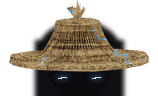
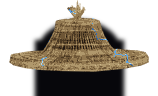
Put Lightning's face and his current where they belong
The face is gone completely. It had been lit from below with two bars where the
eyes were, which still gave the hat something to sit on; now the brim's shade is
opaque from brow to collar and there is nothing under it at all.

The arms were drawn reaching sideways from a shoulder, so the far one - which
the rig hangs from the far shoulder, behind the torso - was swallowed whole and
he appeared to have one arm. The near arm also hung its hand at hip height under
an elbow that sat above and behind it, which reads as an elbow bent backwards.
Both are drawn mirrored now, elbows low and forearms turned forward, so he holds
the open, both-palms-out stance of the painting.

The current is no longer painted into his hands. It is its own four-frame
animation (group 7030) spawned over him from Statedef -2, the way MKT HD lays
Raiden's electricity over his sprite: the body stays clean in every animation,
and the whole effect is one block that can be switched off in one place.

Changed region(s): [[0.557, 0.75, 0.6582, 0.8438], [0.3544, 0.75, 0.4304, 0.8438]]

diff --git a/tools/lightning_art.py b/tools/lightning_art.py
@@ -19,6 +19,7 @@ from __future__ import annotations
 
 import json
 import math
+import random
 import os
 import sys
 
@@ -213,7 +214,7 @@ def pelvis():
 
 # ------------------------------------------------------------------------ head
 def head():
-    """The hat hides the face; only two blue eyes burn out of its shade.
+    """The hat hides the face; under it there is nothing but its own shade.
 
     The hat is not drawn here. It is cut from the HD render in
     ``concept_art/fighters/lightning`` by ``tools/hat_cut.py``, because the
@@ -251,8 +252,8 @@ def head():
     # brim's shade is the whole head, not a band across the eyes. Brow to
     # collar goes to near-black, so no nose, mouth or jawline survives at
     # sprite size - he is a hat with two coals under it.
-    sd.ellipse([cx - 44, 20, cx + 44, 98], fill=(8, 8, 12, 248))
-    sd.rectangle([cx - 44, 40, cx + 44, 98], fill=(8, 8, 12, 248))
+    sd.ellipse([cx - 44, 20, cx + 44, 98], fill=(7, 7, 11, 255))
+    sd.rectangle([cx - 44, 40, cx + 44, 98], fill=(7, 7, 11, 255))
     img.alpha_composite(shade_layer.filter(ImageFilter.GaussianBlur(2.2)))
     d = ImageDraw.Draw(img)
 
@@ -263,72 +264,71 @@ def head():
     img.alpha_composite(hat_img, (cx - hat_img.width // 2,
                                   72 - hat_img.height))
 
-    # --- the only lit thing under it ---------------------------------------
-    for ex in (cx - 17, cx + 17):
-        glow = _blank((W, H))
-        ImageDraw.Draw(glow).ellipse([ex - 9, 72, ex + 9, 82],
-                                     fill=BOLT + (52,))
-        img.alpha_composite(glow.filter(ImageFilter.GaussianBlur(3)))
-    d = ImageDraw.Draw(img)
-    # Two embers, not eyes: enough that the shadow has something burning in it,
-    # little enough that nothing of the face is legible.
-    for ex, sgn in ((cx - 17, -1), (cx + 17, 1)):
-        d.line([(ex - 5, 78), (ex + 5, 77)], fill=(3, 6, 14, 220), width=3)
-        d.line([(ex - 4, 78), (ex + 4, 77)], fill=BOLT + (150,), width=1)
-        d.point([(ex - 1, 77)], fill=BOLT_CORE + (200,))
+    # Nothing under the brim at all, not even eyes: the hat is wide enough
+    # that his face is simply not in view, so the shade is the end of him.
+    # The current he carries is drawn as its own effect, not painted in here.
     return img
 
 
-_ARC_PARTS = []
+def hand_crackle(step):
+    """The current around his hands, drawn as its own effect animation.
 
-
-def _arcs():
-    """The painted lightning, cut once and reused by every arm."""
-    if not _ARC_PARTS:
-        _ARC_PARTS.extend(hat_cut.arcs(8, 80))
-    return _ARC_PARTS
-
-
-def _arc_stroke(img, index, box_w, box_h, at):
-    """Composite one arc cut from the concept, fitted into a box at ``at``.
-
-    The strokes in the painting are thin, tapered and forked; fitted by size
-    and drawn twice, a soft copy under the stroke for the halo, because at hand
-    size a single thin line disappears against the dark robe.
+    Not painted into the arm. It is a wide overlay frame the character spawns
+    over himself, the way MKT HD lays Raiden's electricity over his sprite, so
+    the arms stay clean in every animation and the effect can be turned off.
+    The strokes are the ones painted in the concept, keyed out by
+    ``hat_cut.arcs`` and re-jagged every frame so nothing sits still.
     """
-    pieces = _arcs()
+    W, H = 70, 50
+    img = _blank((W, H))
+    pieces = hat_cut.arcs(8, 80)
     if not pieces:
-        return
-    piece = pieces[index % len(pieces)]
-    scale = min(box_w / piece.width, box_h / piece.height)
-    size = (max(1, round(piece.width * scale)), max(1, round(piece.height * scale)))
-    small = piece.resize(size, Image.LANCZOS)
-    if small.width < 3 or small.height < 3:
-        return
-    halo = small.filter(ImageFilter.GaussianBlur(1.7))
-    halo.putalpha(halo.getchannel("A").point(lambda v: int(v * 0.55)))
-    img.alpha_composite(halo, at)
-    img.alpha_composite(small, at)
+        return img
+    rnd = random.Random(step * 13 + 5)
+    # Short strokes only, packed tight to each hand: the long ones across his
+    # hat cross the whole body and read as a bolt, not as current.
+    shorts = [q for q in pieces if max(q.size) <= 60] or pieces
+    for cx, cy in ((18, 25), (52, 25)):
+        for k in range(3):
+            piece = shorts[(step * 4 + k) % len(shorts)]
+            scale = rnd.uniform(0.22, 0.40)
+            size = (max(2, int(piece.width * scale)),
+                    max(2, int(piece.height * scale)))
+            p = piece.resize(size, Image.LANCZOS)
+            p = p.rotate(rnd.uniform(-75, 75), resample=Image.BICUBIC, expand=True)
+            at = (cx - p.width // 2 + rnd.randint(-5, 5),
+                  cy - p.height // 2 + rnd.randint(-5, 5))
+            halo = p.filter(ImageFilter.GaussianBlur(2.4))
+            halo.putalpha(halo.getchannel("A").point(lambda v: int(v * 0.6)))
+            img.alpha_composite(halo, at)
+            img.alpha_composite(p, at)
+    return img
 
 
 # ------------------------------------------------------------------------ arms
 def arm(near=True):
-    """One bent arm: robe sleeve, cuff, and a hand with current crawling on it."""
+    """One bent arm: robe sleeve, cuff, and a bare hand."""
     W, H = 148, 132
     img = _blank((W, H))
     base, lit, dark = (ROBE, ROBE_LIT, ROBE_DK) if near else (
         (18, 18, 22), (36, 36, 44), (8, 8, 10))
     skin = (SKIN, SKIN_LIT, SKIN_DK) if near else (SKIN_DK, SKIN, SKIN_DEEP)
+    # The elbow sits below and slightly behind the shoulder and the forearm
+    # rises forward to the hand: that is an arm bent towards the enemy. It used
+    # to hang the hand at hip height with the elbow above and behind it, which
+    # reads as an arm bent backwards - and the far arm was that same arm
+    # mirrored, which turned its forearm round and pointed that hand behind
+    # him as well.
     sh = (54.0, 14.0)
-    elbow = (56.0, 62.0)
-    wrist = (98.0, 84.0)
+    elbow = (48.0, 58.0) if near else (50.0, 62.0)
+    wrist = (92.0, 54.0) if near else (88.0, 60.0)
 
     # upper sleeve, hanging from the shoulder
     mask = Image.new("L", (W, H), 0)
     d = ImageDraw.Draw(mask)
-    d.polygon([(43, 14), (67, 14), (70, 54), (39, 57)], fill=255)
+    d.polygon([(41, 14), (65, 14), (64, 52), (36, 56)], fill=255)
     d.ellipse([sh[0] - 13, sh[1] - 8, sh[0] + 13, sh[1] + 13], fill=255)
-    d.ellipse([elbow[0] - 15, elbow[1] - 12, elbow[0] + 15, elbow[1] + 10], fill=255)
+    d.ellipse([elbow[0] - 12, elbow[1] - 9, elbow[0] + 12, elbow[1] + 9], fill=255)
     img.alpha_composite(char_rig._shade(mask, base, lit, dark))
 
     # forearm sleeve, angled out towards the enemy
@@ -341,11 +341,13 @@ def arm(near=True):
 
     d = ImageDraw.Draw(img)
     # flared cuff at the wrist
-    d.line([(93, 81), (103, 87)], fill=(104, 108, 120, 255), width=22)
-    d.line([(95, 82), (102, 87)], fill=dark + (210,), width=15)
+    d.line([(wrist[0] - 5, wrist[1] - 3), (wrist[0] + 5, wrist[1] + 3)],
+           fill=(104, 108, 120, 255), width=22)
+    d.line([(wrist[0] - 3, wrist[1] - 2), (wrist[0] + 4, wrist[1] + 3)],
+           fill=dark + (210,), width=15)
 
     # hand: wrist, palm, four fingers
-    hx, hy = 116, 96
+    hx, hy = (108, 50) if near else (104, 56)
     d.ellipse([hx - 11, hy - 10, hx + 11, hy + 10], fill=skin[0] + (255,))
     d.ellipse([hx - 8, hy - 8, hx + 6, hy + 3], fill=skin[1] + (205,))
     d.line([(hx - 4, hy + 5), (hx + 9, hy + 6)], fill=skin[2] + (185,), width=2)
@@ -355,19 +357,12 @@ def arm(near=True):
     d.line([(hx + 2, hy - 9), (hx + 9, hy - 9)], fill=skin[1] + (180,), width=2)
 
     # folds in the sleeve
-    d.line([(40, 28), (43, 54)], fill=dark + (130,), width=2)
-    d.line([(69, 26), (71, 52)], fill=lit + (80,), width=2)
-    d.line([(64, 66), (82, 74)], fill=dark + (100,), width=2)
+    d.line([(38, 28), (41, 52)], fill=dark + (130,), width=2)
+    d.line([(66, 24), (65, 50)], fill=lit + (80,), width=2)
+    d.line([(58, 60), (76, 60)], fill=dark + (100,), width=2)
 
-    # current: the arcs painted in the concept, cut out of the picture and
-    # recoloured to the palette. The short strokes are used, not the long ones
-    # across his hat: a 370px stroke squeezed into a 40px box smears into a flat
-    # streak, while a 25px stroke keeps the taper and the fork it was drawn with.
-    _arc_stroke(img, 5, 34, 30, (hx + 2, hy - 30))
-    _arc_stroke(img, 6, 30, 26, (hx - 30, hy + 2))
-    # The far arm was the near arm again, so its hand reached across his own
-    # chest and vanished behind the torso, leaving one floating glove. A
-    # mirrored part bends the other way and puts the hand on its own side.
+    # No lightning is painted into the arm. The current he carries is its own
+    # animation (group 7030) spawned over him, so the arms stay clean.
     if not near:
         img = img.transpose(Image.FLIP_LEFT_RIGHT)
     return img
@@ -472,7 +467,11 @@ RIG_JSON = {
         # 100-wide original used: a stale pivot drew the whole skirt 7px left.
         "pelvis": [43, 16],
         "arm_n": [56, 14],
-        "arm_f": [92, 14],          # mirrored art, pivot mirrored too
+        # The rig hangs the far arm from the far shoulder, so an arm drawn
+        # reaching sideways is swallowed by the torso there. Mirrored, the
+        # pair reads the way the painting does it: both palms out, one arm
+        # either side, elbows low and the forearms turned forward.
+        "arm_f": [92, 14],
         # ankle joint sits 14px above the ground, so the pivot is placed 14px
         # up from the sole (part height 36 - 14 = 20)
         "foot_n": [14, 25],

diff --git a/tools/lightning.py b/tools/lightning.py
@@ -142,6 +142,7 @@ def bolt_column(step):
 
 def sprites():
     """Extra sprite records for Lightning's SFF."""
+    import lightning_art        # the hand crackle frames only
     out = [{"group": 7000, "number": 0, "image": bolt_orb(), "axis": (17, 17)}]
     for i in range(3):
         out.append({"group": 7001, "number": i,
@@ -155,6 +156,9 @@ def sprites():
     for i in range(3):
         out.append({"group": 7020, "number": i,
                     "image": bolt_column(i), "axis": (24, 208)})
+    for i in range(4):
+        out.append({"group": 7030, "number": i,
+                    "image": lightning_art.hand_crackle(i), "axis": (35, 25)})
     return out
 
 
@@ -204,6 +208,13 @@ Clsn1: 1
 7020,0, 0,0, 4, , A
 7020,1, 0,0, 4, , A
 7020,2, 0,0, -1, , A
+
+; Current around his hands - an effect laid over the body, never in it
+[Begin Action 7030]
+7030,0, 0,0, 3, , A
+7030,1, 0,0, 3, , A
+7030,2, 0,0, 3, , A
+7030,3, 0,0, -1, , A
 """
 
 
@@ -622,6 +633,25 @@ type = ChangeState
 trigger1 = AnimTime = 0
 value = 0
 ctrl = 1
+
+;---------------------------------------------------------------------------
+; The current is not part of him.
+; Raiden's electricity in MKT HD is laid over the sprite, not drawn into it,
+; and this is the same trick: a looping explod of the crackle frames around
+; his hands, so every body animation stays clean and the whole effect is one
+; block that can be switched off right here.
+;---------------------------------------------------------------------------
+[Statedef -2]
+type = Explod
+trigger1 = !(time % 10)
+anim = 7030
+id = 7300
+postype = p1
+pos = 0,-186
+sprpriority = 4
+removetime = 14
+trans = add
+ownpal = 1
 """
 
 EXTRA_SPECIALS = """Volt Volley\\t\\t\\t\\t\\t\\t\\t_QDB^K
